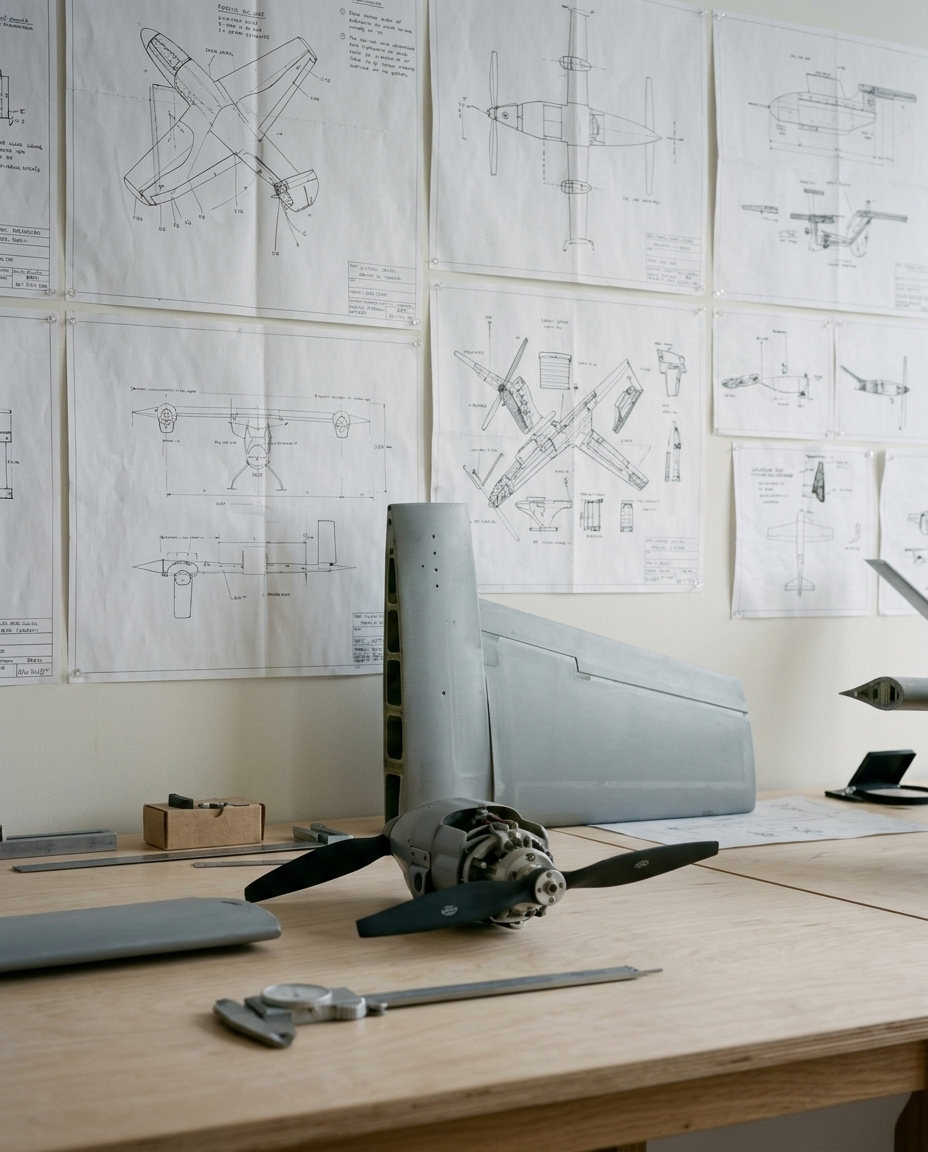
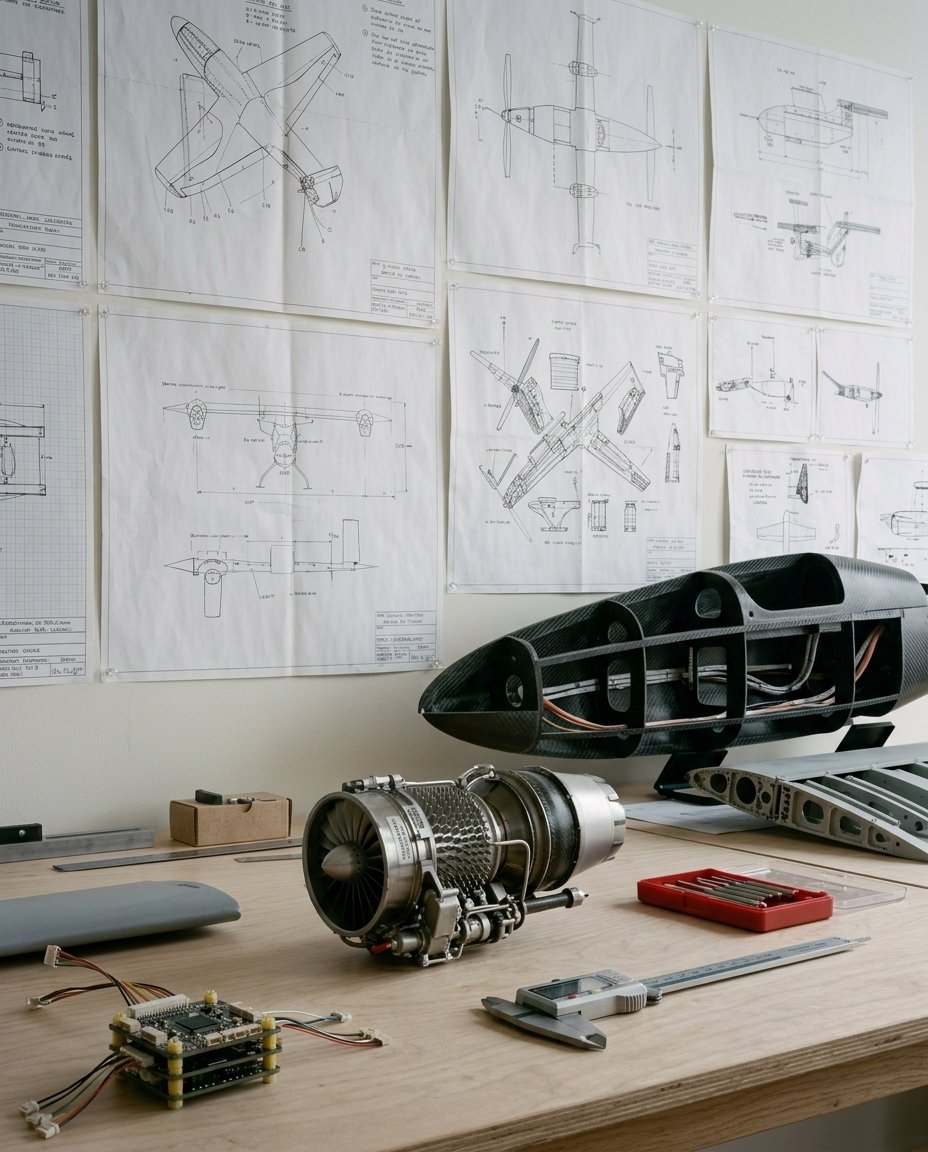
New Patent Strength Grading hero; Protect tray photo swapped to the blueprint desk, engine circle on Home

diff --git a/product/signal/index.html b/product/signal/index.html
@@ -636,7 +636,7 @@
         <div class="pillar-actions"><a href="#contact" class="btn btn-lg btn-primary" data-zh="委託報告">Request a report</a><a href="#reports" class="btn btn-lg btn-secondary" data-zh="看報告樣張">See a sample report</a></div>
       </div>
     </div>
-    <div class="container"><div class="fd-ph fd-ph--img fd-hero__band" style="--fd-pos-m:53% 50%" aria-hidden="true"><picture><source type="image/webp" srcset="/assets/imagery/uv/signal-hero-400.webp 400w, /assets/imagery/uv/signal-hero-800.webp 800w, /assets/imagery/uv/signal-hero-1376.webp 1376w" sizes="(max-aspect-ratio: 16/9) 180vh, 100vw"><img class="fd-ph__img" src="/assets/imagery/uv/signal-hero.jpg" alt="" width="1376" height="768" fetchpriority="high" decoding="async"></picture></div></div>
+    <div class="container"><div class="fd-ph fd-ph--img fd-hero__band" style="--fd-pos-m:55% 50%" aria-hidden="true"><picture><source type="image/webp" srcset="/assets/imagery/uv/signal-hero-400.webp 400w, /assets/imagery/uv/signal-hero-800.webp 800w, /assets/imagery/uv/signal-hero-1376.webp 1376w" sizes="(max-aspect-ratio: 16/9) 180vh, 100vw"><img class="fd-ph__img" src="/assets/imagery/uv/signal-hero.jpg" alt="" width="1376" height="572" fetchpriority="high" decoding="async"></picture></div></div>
   </section>
 
   <!-- ── 2 · Reports — two value-cards. Snapshot retired 2026-10-06 (team review). On the

diff --git a/CHANGELOG.md b/CHANGELOG.md
@@ -9,6 +9,7 @@ Format: one short entry per editing session, newest on top.
 ```
 
 ## Entries
+- **2026-10-13 07:42 +08:00** · New Patent Strength Grading hero (report on patent drawings); Protect tray and mega card photo swapped to the blueprint desk, Home circle now the engine.
 - **2026-10-12 14:37 +08:00** · Full site audit fixes (batches 1–9): links, unused code, tokens, shared spacing, type and Chinese breaks, mobile, popup and forms, motion, accessibility; styles v94.
 - **2026-10-12 11:53 +08:00** · About commitments in a ruled frame and a new photo-strip board with updated roles; About spacing fixed; styles v85.
 - **2026-10-12 10:59 +08:00** · Innovue logo and TIS submark replace names on the front door; Capability lifter back to a full-bleed band; styles v84.
